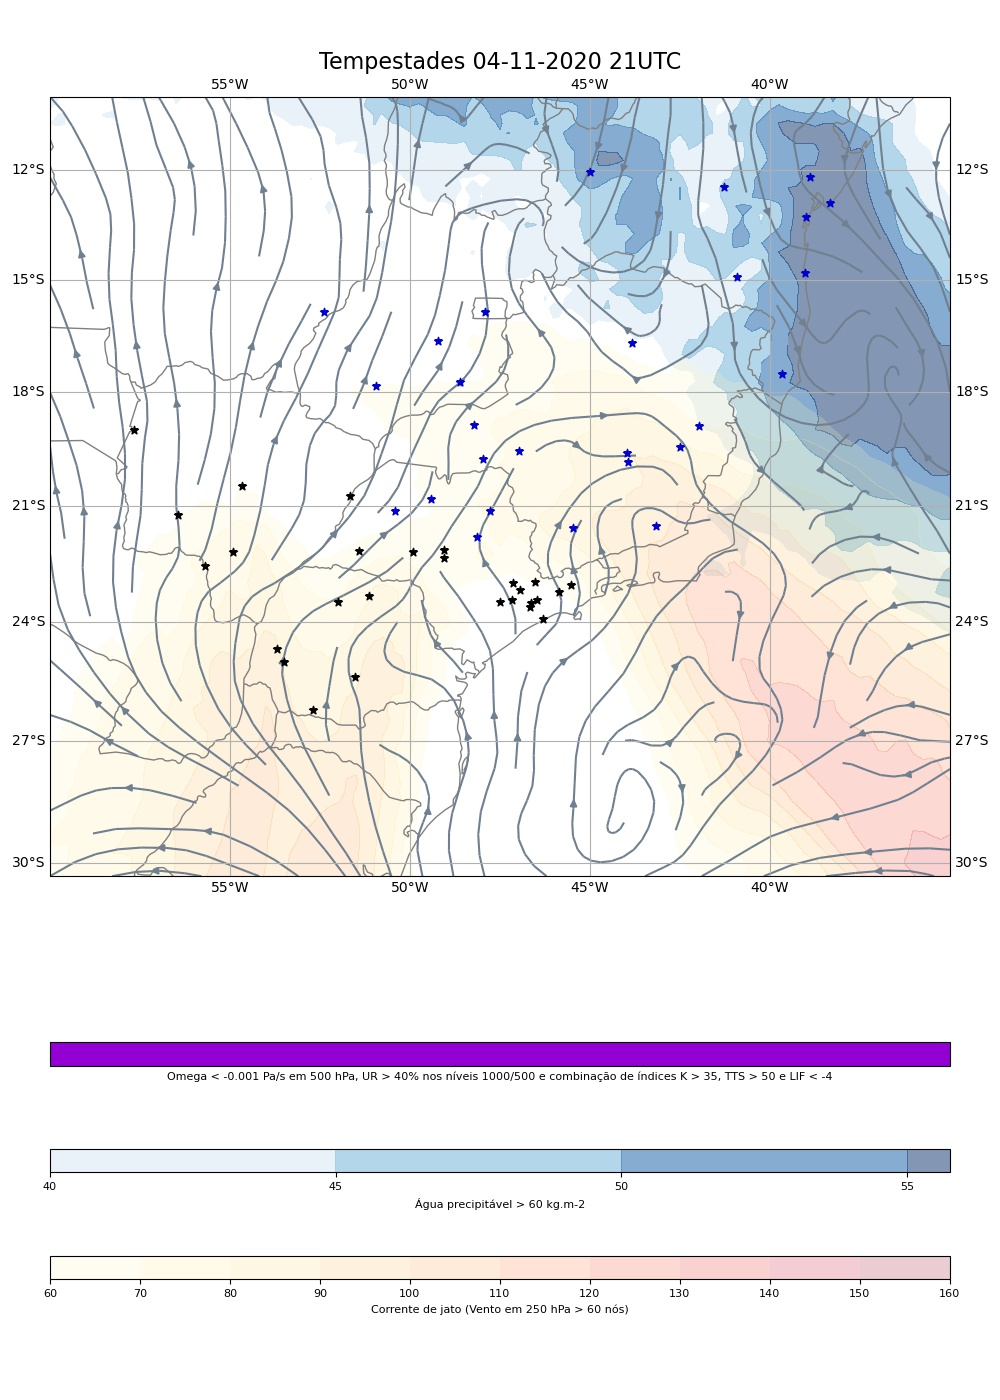
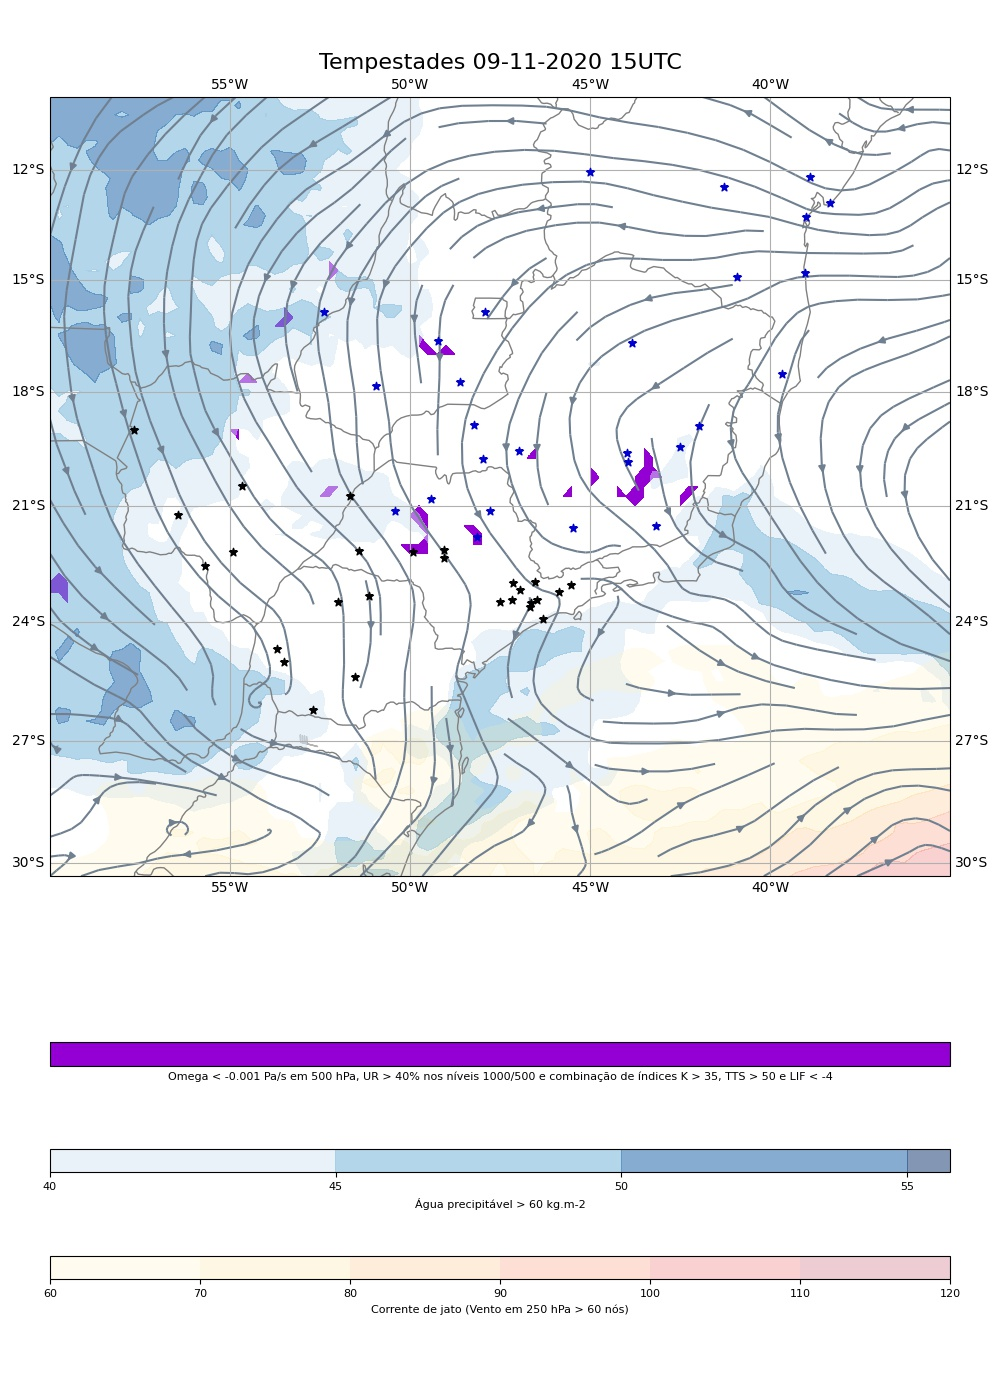
adjusted 'time' variable

diff --git a/src/plot_charts.py b/src/plot_charts.py
@@ -22,9 +22,9 @@ if __name__ == '__main__':
     data = xr.open_dataset(PATH)
 
     start_time = time.time()
-    print('Plotting charts')
 
-    for time_step in range(len(data['time2'])):
+    for time_step in range(len(data[list(dict(data.dims).keys())[-1]])):
+        print('Plotting charts')
         charts = CalculateCharts(data, time_step)
         charts.clouds_humidity()
         charts.showers_heat_humidity()
@@ -36,4 +36,3 @@ if __name__ == '__main__':
 
     elapsed_time = time.time() - start_time
     print('Process done in {} seconds'.format(elapsed_time))
-

diff --git a/src/charts.py b/src/charts.py
@@ -19,7 +19,7 @@ class CalculateCharts:
 
         # Getting a time stamp to be used in the charts
         date = pd.to_datetime(np.datetime_as_string(
-            data['time2'][self.time_step].values, unit='h', timezone='UTC'))
+            data[list(dict(self.data.dims).keys())[-1]][self.time_step].values, unit='h', timezone='UTC'))
         self.time_stamp = f'{date.day:02d}-{date.month:02d}-{date.year} {date.hour:02d}UTC'
 
         # Use the functions in Class ExtractVariables and CalculateIndices

diff --git a/src/data.py b/src/data.py
@@ -48,7 +48,7 @@ class GetGFSData:
         # lonlat_box(west, east, south, north)
         query.lonlat_box(north=0, south=-40, east=-25, west=-70)
         now = dt.datetime.utcnow()
-        n_hours = 3
+        n_hours = 34
         query.time_range(now, now + dt.timedelta(hours=n_hours))
         query.accept('netcdf4')
 
